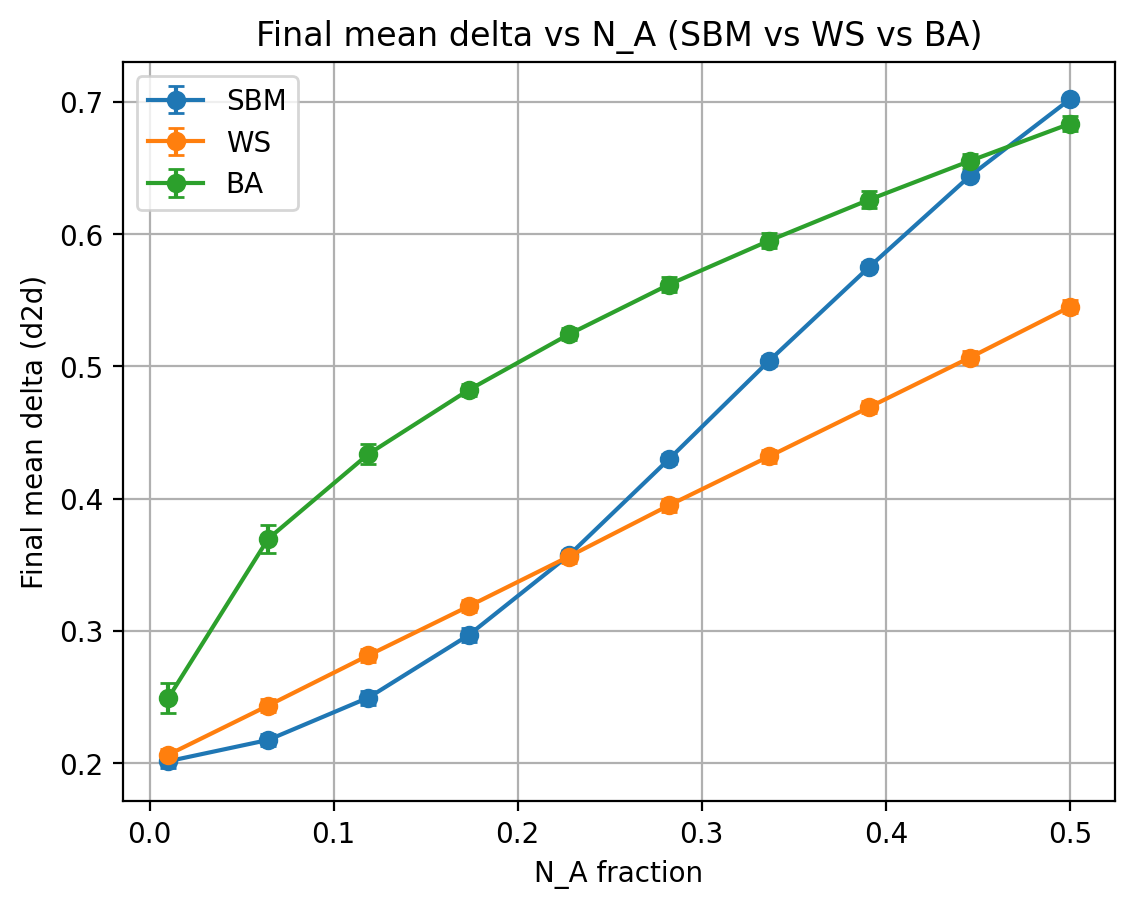
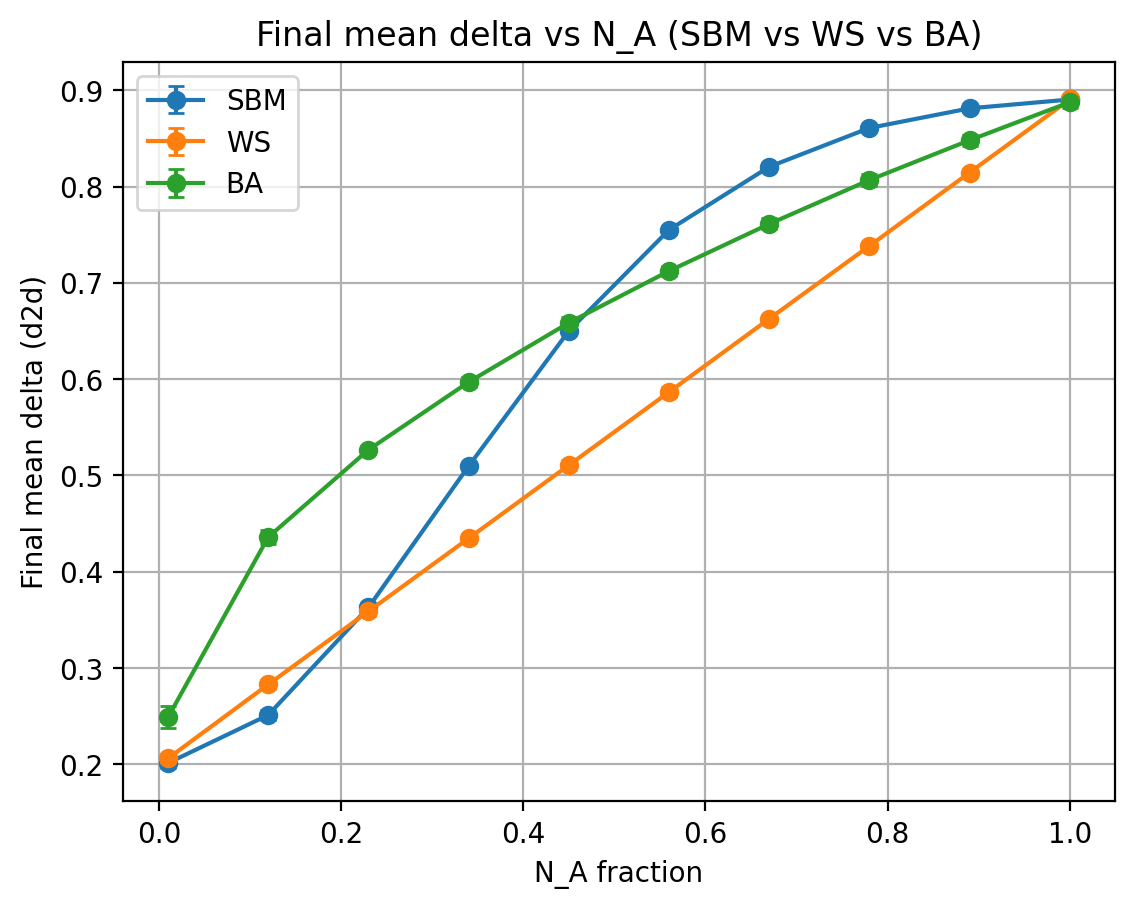
new comparing graph

diff --git a/code/compare_graphs_d2d.py b/code/compare_graphs_d2d.py
@@ -174,7 +174,7 @@ def sweep_WS_p(outdir="figs_final",
                ps=None):
     os.makedirs(outdir, exist_ok=True)
     if ps is None:
-        ps = [0.0, 0.01, 0.05, 0.1, 0.5, 1.0]
+        ps = np.linspace(0, 1, 11)
 
     means, stds = [], []
     for p in ps:
@@ -225,7 +225,7 @@ if __name__ == "__main__":
     sweep_NA_three_models(
         outdir="figs_final",
         n=500, R=50, runs=10,
-        NA_fracs=np.linspace(0.01, 0.50, 10),
+        NA_fracs=np.linspace(0.01, 1, 10),
         ws_k=6, ws_p=0.10,
         ba_m=2,
         sbm_P=[[0.15, 0.01],
